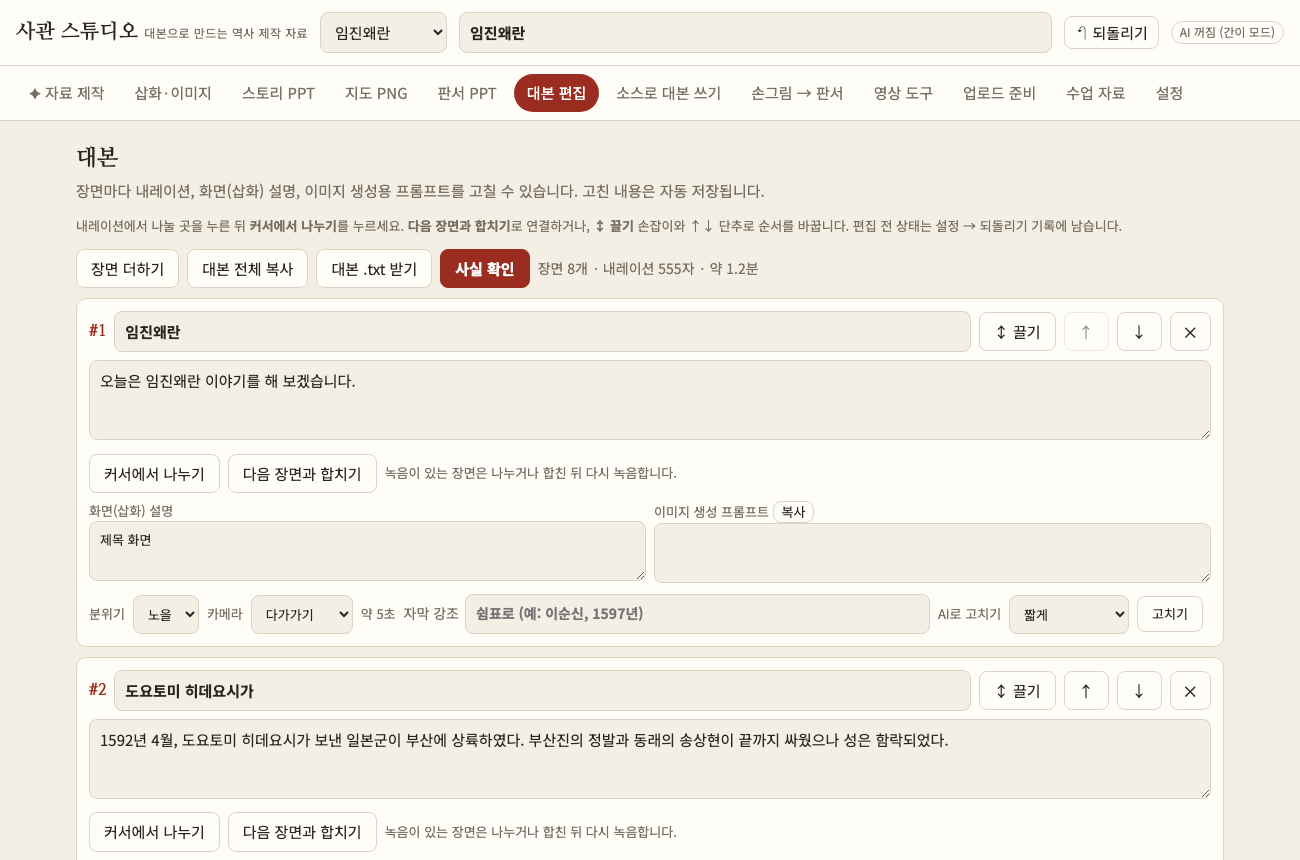
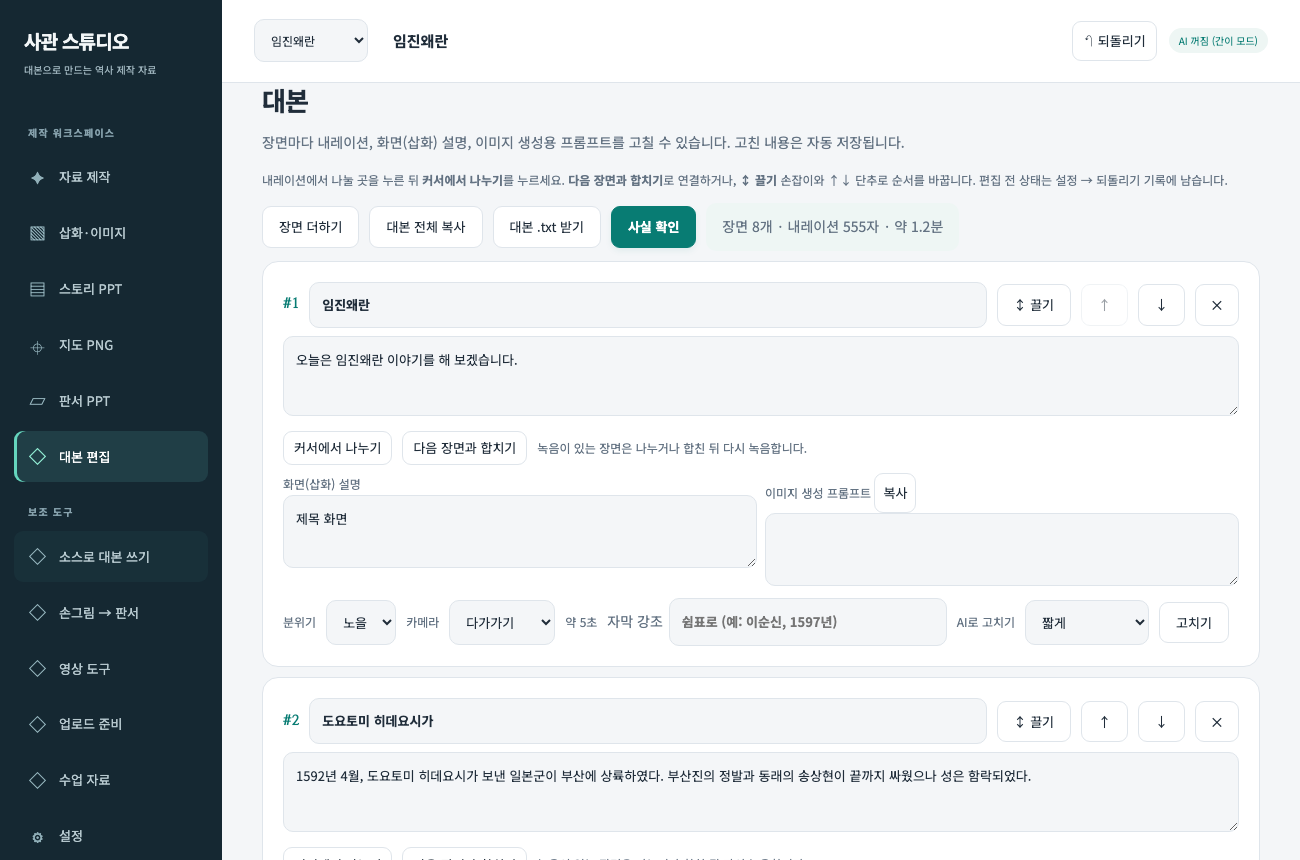
style: refresh studio workspace and material workflow

diff --git a/assets/studio.css b/assets/studio.css
@@ -1,0 +1,30 @@
+/* 제작 도구의 화면 테마. 출력물의 캔버스·PPT 디자인과 분리합니다. */
+:root{--bg:#f4f6f8;--panel:#fff;--ink:#202d3a;--muted:#647383;--line:#dfe5eb;--accent:#087c73;--accent-ink:#fff;--radius:16px;--gap:20px;--soft:#eef6f4;--nav:#152832;--sans:'Noto Sans KR','Apple SD Gothic Neo','Malgun Gothic',sans-serif}
+:root[data-theme=dark]{--bg:#101b23;--panel:#192933;--ink:#edf3f5;--muted:#afbdc7;--line:#334650;--accent:#158b80;--soft:#233d40}
+@media(prefers-color-scheme:dark){:root:not([data-theme=light]){--bg:#101b23;--panel:#192933;--ink:#edf3f5;--muted:#afbdc7;--line:#334650;--accent:#158b80;--soft:#233d40}}
+html{scroll-behavior:smooth}body{font-size:14px;line-height:1.7}button,input,textarea,select{transition:border-color .15s,background .15s,box-shadow .15s}button:focus-visible,input:focus-visible,textarea:focus-visible,select:focus-visible,summary:focus-visible,a:focus-visible{outline:3px solid #54b8ac;outline-offset:3px}a{color:var(--accent)}
+body>header{margin-left:222px;min-height:78px;padding:16px 32px;gap:12px;background:var(--panel);border-color:var(--line)}
+body>header h1{position:fixed;left:24px;top:25px;z-index:9;color:#f3f7f8;font-family:var(--sans);font-size:19px;font-weight:700;letter-spacing:-.8px}
+body>header h1 small{display:block;margin:4px 0 0;color:#9cb2bb;font-size:10px;letter-spacing:.1px}
+#proj-title{background:transparent;border-color:transparent;font-size:15px;min-width:120px}#proj-title:focus{border-color:var(--line)}#proj-select{font-size:12px}#ai-badge{font-size:10px}
+#tabs{position:fixed;inset:0 auto 0 0;width:222px;z-index:4;display:flex;flex-direction:column;overflow-y:auto;overflow-x:hidden;padding:108px 14px 24px;gap:5px;background:var(--nav);border:0}
+#tabs .nav-label{padding:16px 14px 6px;color:#87a2ad;font-size:10px;font-weight:700;letter-spacing:1.2px}
+#tabs button{display:flex;align-items:center;gap:12px;flex-shrink:0;padding:11px 14px;text-align:left;border:0;border-radius:9px;font-size:13px;color:#b7c9cf;transition:background .15s}
+#tabs button::before{content:'◇';font-size:17px;width:19px;text-align:center;color:#91b0b9}
+#tabs button[data-tab=materials]::before{content:'✦'}#tabs button[data-tab=shots]::before{content:'▧'}#tabs button[data-tab=story]::before{content:'▤'}#tabs button[data-tab=map]::before{content:'⌖'}#tabs button[data-tab=board]::before{content:'▱'}#tabs button[data-tab=settings]::before{content:'⚙'}
+#tabs button.on{background:#24464e;color:#fff;box-shadow:inset 3px 0 #65d5bd}#tabs button.on::before{color:#8fe8d0}#tabs button:hover:not(.on){background:#203942;color:#fff}
+main{max-width:1440px;margin:0 0 0 222px;padding:32px 40px 64px}section.tab>h2{font-family:var(--sans);font-size:26px;letter-spacing:-1px;margin-bottom:8px}h3{font-size:17px;letter-spacing:-.4px;margin:0 0 8px}h4{font-size:15px}p{word-break:keep-all;overflow-wrap:anywhere}.lead{line-height:1.8}.card{padding:26px;border-radius:var(--radius);box-shadow:0 3px 12px #142c3c03}.btn{border-radius:9px;padding:10px 16px;font-size:13px;font-weight:500;line-height:1.5;min-height:40px}.btn:hover:not(:disabled){background:var(--soft);border-color:#8faaa7}.btn.primary{box-shadow:0 3px 6px #087c7314}.btn.primary:hover:not(:disabled){background:#08675f;border-color:#08675f;color:white}.btn:disabled{opacity:.45}.small{font-size:12px;line-height:1.85}.pill{background:var(--soft);border:0;padding:4px 10px;font-size:11px;color:var(--accent)}
+textarea,input[type=text],input[type=password],select{background:var(--bg);border-radius:10px;padding:11px 12px;font-size:13px}textarea{line-height:1.9}textarea:focus,input:focus,select:focus{border-color:var(--accent)}input[type=checkbox]{accent-color:var(--accent);width:16px;height:16px;vertical-align:middle}summary{cursor:pointer}.row{gap:10px}.grid2>*,.material-outputs>*{min-width:0}.scene,.shot-scene{padding:20px}.shot{padding:10px;border-radius:12px}.scene header{margin:0}.scene header h1{position:static}.scene-tools .btn{padding:6px 10px;min-height:34px}.status:not(:empty){padding:12px 16px;border-radius:10px;background:var(--soft)}
+.material-hero{position:relative;display:flex;justify-content:space-between;align-items:center;gap:24px;padding:8px 0 26px;min-height:206px}.hero-copy{max-width:580px}.hero-eyebrow{display:block;color:var(--accent);font-size:11px;font-weight:700;letter-spacing:1.5px;margin-bottom:12px}.material-hero h2{font-family:var(--sans);font-size:34px;line-height:1.4;letter-spacing:-1.5px;margin:0 0 14px;font-weight:700}.material-hero .lead{font-size:13px;margin:0;max-width:510px}
+.hero-art{flex:0 0 185px;height:168px;position:relative;margin-right:16px;pointer-events:none}.hero-sheet{position:absolute;border:1px solid #cedbd8;background:#fff;border-radius:12px;box-shadow:0 8px 20px #183d3510;width:112px;height:140px;top:12px;left:15px;transform:rotate(-12deg);padding:15px}.hero-sheet::before{content:'';display:block;width:34px;height:6px;border-radius:4px;background:#769e94;margin-bottom:14px}.hero-sheet i{display:block;height:4px;border-radius:3px;background:#dce6e2;margin:8px 0}.hero-sheet i:last-child{width:60%}.hero-picture{position:absolute;width:132px;height:103px;left:58px;top:51px;transform:rotate(8deg);background:#d4e6e0;border:7px solid #fff;border-radius:12px;box-shadow:0 8px 20px #183d3520;overflow:hidden}.hero-picture::before{content:'';position:absolute;width:20px;height:20px;border-radius:50%;background:#f7e4b0;left:18px;top:13px}.hero-picture::after{content:'';position:absolute;inset:34px -10px -10px;background:#5f9388;clip-path:polygon(0 100%,0 60%,35% 0,58% 45%,74% 18%,100% 60%,100% 100%)}
+.workflow-path{display:grid;grid-template-columns:repeat(3,1fr);margin:0 0 26px;padding:0;list-style:none;border:1px solid var(--line);border-radius:12px;background:var(--panel);overflow:hidden}.workflow-path li{display:flex;align-items:center;gap:12px;padding:15px 20px;color:var(--muted);font-size:12px}.workflow-path li+li{border-left:1px solid var(--line)}.workflow-path b{display:grid;place-items:center;border:1px solid var(--line);border-radius:50%;height:26px;width:26px;font-size:11px;flex-shrink:0}.workflow-path li[aria-current=step]{color:var(--accent);background:var(--soft);font-weight:700}.workflow-path li[aria-current=step] b{background:var(--accent);border-color:var(--accent);color:white}
+#material-input>h3::before,#material-review>h3::before,#material-output>h3::before{content:'';display:inline-block;width:4px;height:17px;margin-right:9px;background:var(--accent);border-radius:2px;vertical-align:-2px}#material-input>.small{margin-top:4px}#material-script{min-height:260px;background:var(--bg);padding:20px;margin:8px 0 14px;font-size:14px}#material-propose{margin-left:auto}.input-footer{border-top:1px solid var(--line);padding-top:18px}.material-group{background:var(--panel);padding:22px;border-radius:12px;margin:18px 0}.material-group>.row:first-child{border-bottom:1px solid var(--line);padding-bottom:14px;margin-bottom:12px}.material-group label{font-size:12px;font-weight:500;color:var(--muted)}.material-group textarea,.material-group input{font-weight:400;color:var(--ink);margin-top:6px}.material-confirm{border-top:1px solid var(--line);padding-top:22px;font-size:13px}.material-outputs{gap:16px}.material-outputs>div{border-radius:12px;padding:22px;background:var(--panel)}.material-outputs h4{margin:0 0 8px}.material-outputs>div:first-child{background:var(--soft);border-color:#88bcb3;margin:0}.material-outputs .btn{font-size:12px}.material-outputs .small{margin-top:4px}#cli-preview:empty{display:none}#cli-preview{margin-top:18px}#cli-preview figure{padding:12px;background:var(--panel);border-radius:12px;border:1px solid var(--line)}#cli-preview img{border-radius:8px}#cli-preview figcaption{padding:8px 4px 0;font-size:12px}#material-review,#material-output{scroll-margin-top:102px}
+@media(min-width:1660px){main{margin-left:auto;margin-right:auto;padding-left:262px}}
+@media(max-width:1100px) and (min-width:821px){main{padding:26px}body>header{padding:16px 24px}.hero-art{display:none}.material-hero h2{font-size:30px}header h1 small{font-size:9px}}
+@media(max-width:820px){body>header{margin:0;padding:14px 18px;gap:8px;position:relative}body>header h1{position:static;color:var(--ink);width:100%;font-size:19px}body>header h1 small{display:inline;color:var(--muted);margin-left:8px;font-size:10px}#tabs{position:sticky;top:0;inset:auto;z-index:5;width:100%;flex-direction:row;padding:8px 12px;overflow-x:auto;background:var(--nav);gap:4px}#tabs .nav-label{display:none}#tabs button{padding:9px 12px;font-size:12px}#tabs button::before{display:none}#tabs button.on{box-shadow:inset 0 -2px #65d5bd}main{margin:0;padding:24px 18px 48px}.hero-art{display:none}.material-hero{min-height:0;padding:0 0 22px}.material-hero h2{font-size:29px}.card{padding:20px}.workflow-path li{padding:13px 12px;gap:8px}#material-review,#material-output{scroll-margin-top:70px}}
+@media(max-width:480px){body>header h1 small{display:block;margin:2px 0 4px}#proj-title{width:calc(100% - 170px)}#proj-select{width:155px}main{padding:24px 14px 36px}.material-hero h2{font-size:27px}.hero-eyebrow{font-size:10px}.workflow-path li{gap:6px;padding:12px 8px;font-size:11px}.workflow-path b{width:21px;height:21px;font-size:10px}.card{padding:18px}.material-group{padding:14px}#material-script{min-height:260px;padding:14px}.input-footer .btn{flex:1;text-align:center;font-size:11px}#material-propose{flex-basis:100%;margin:4px 0 0;font-size:13px}.material-outputs>div{padding:17px}.shot-grid{grid-template-columns:minmax(0,1fr)}}
+@media(prefers-reduced-motion:reduce){html{scroll-behavior:auto}*,*::before,*::after{transition:none!important}}
+@media(min-width:821px){body>header h1::before{content:'';position:fixed;top:0;left:0;width:222px;height:96px;background:var(--nav);z-index:-1}#tabs{top:96px;padding-top:12px}}
+:root[data-theme=dark] .pill{color:#8de1d0}
+@media(prefers-color-scheme:dark){:root:not([data-theme=light]) .pill{color:#8de1d0}}
+.status:not(:empty){display:block}

diff --git a/index.html b/index.html
@@ -120,6 +120,7 @@ table.places input{ width:100%; padding:4px 6px; }
 .material-group{margin:14px 0;padding:16px;border:1px solid var(--line);border-radius:10px}.material-group h4{margin:0}.material-group textarea{min-height:95px}.material-group .excerpt{white-space:pre-wrap;max-height:240px;overflow:auto;font-size:14px;padding:12px;background:var(--bg)}.material-group label{display:block}.material-group input[type=text]{width:100%}.material-confirm{padding-top:12px}.material-confirm b{flex:1}#material-script{min-height:240px;margin-bottom:12px}
 @media(max-width:620px){.material-outputs{grid-template-columns:1fr}.material-hero h2{font-size:25px}.material-group{padding:12px}}
 </style>
+<link rel="stylesheet" href="assets/studio.css">
 </head>
 <body>
 <header>
@@ -130,13 +131,15 @@ table.places input{ width:100%; padding:4px 6px; }
   <button class="btn" id="btn-undo" title="AI가 덮어쓰기 전 상태로 되돌립니다" style="padding:4px 10px">↶ 되돌리기</button>
   <span id="ai-badge" class="pill">AI 꺼짐</span>
 </header>
-<nav id="tabs">
-  <button data-tab="materials" class="on">✦ 자료 제작</button>
+<nav id="tabs" aria-label="스튜디오 도구">
+  <span class="nav-label">제작 워크스페이스</span>
+  <button data-tab="materials" class="on">자료 제작</button>
   <button data-tab="shots">삽화·이미지</button>
   <button data-tab="story">스토리 PPT</button>
   <button data-tab="map">지도 PNG</button>
   <button data-tab="board">판서 PPT</button>
   <button data-tab="script">대본 편집</button>
+  <span class="nav-label">보조 도구</span>
   <button data-tab="source">소스로 대본 쓰기</button>
   <button data-tab="chalk">손그림 → 판서</button>
   <button data-tab="video">영상 도구</button>
@@ -146,12 +149,12 @@ table.places input{ width:100%; padding:4px 6px; }
 </nav>
 <main>
 <section class="tab on" id="tab-materials">
-  <div class="material-hero"><span class="pill">대본 → 제작 목록 → 자료별 받기</span><h2>한 편의 대본을, 필요한 자료로.</h2>
-  <p class="lead">삽화·지도 PNG, 스토리 PPT, 판서 자료를 준비하세요. 그림은 Codex·ChatGPT 구독으로 만들고, 지도와 인용 화면·PPT는 여기서 만듭니다.</p></div>
+  <div class="material-hero"><div class="hero-copy"><span class="hero-eyebrow">HISTORY · CREATIVE STUDIO</span><h2>이야기가 시작되는 곳,<br>사관 스튜디오.</h2><p class="lead">한 편의 대본을 삽화와 지도, 스토리 PPT로.<br>수업과 영상에 필요한 자료를 한곳에서 준비하세요.</p></div><div class="hero-art" aria-hidden="true"><div class="hero-sheet"><i></i><i></i><i></i><i></i><i></i></div><div class="hero-picture"></div></div></div>
+  <ol class="workflow-path" aria-label="자료 제작 순서"><li id="workflow-input" aria-current="step"><b>01</b> 대본 입력</li><li id="workflow-review"><b>02</b> 목록 검토</li><li id="workflow-output"><b>03</b> 자료 제작</li></ol>
   <div class="card" id="material-input">
     <h3>1. 완성 대본 넣기</h3><p class="small">원고의 표현을 보존한 채 제작 구간을 나눕니다. 제목을 첫 줄에 넣어 주세요.</p>
     <textarea id="material-script" aria-label="완성 대본" placeholder="직접 쓴 설명 원고나 완성된 내레이션을 붙여 넣으세요."></textarea>
-    <div class="row"><button class="btn" id="material-sample">명량대첩 원고 예시</button><label class="btn">대본 파일 넣기<input id="material-file" type="file" accept=".txt,.md,text/plain" hidden></label><button class="btn primary" id="material-propose">제작 목록 제안받기</button></div>
+    <div class="row input-footer"><button class="btn" id="material-sample">명량대첩 원고 예시</button><label class="btn">대본 파일 넣기<input id="material-file" type="file" accept=".txt,.md,text/plain" hidden></label><button class="btn primary" id="material-propose">제작 목록 제안받기</button></div>
   </div>
   <div class="card" id="material-review" hidden>
     <h3>2. 만들 자료 검토하기</h3><p class="small" id="material-method"></p>

diff --git a/assets/materials-ui.js b/assets/materials-ui.js
@@ -8,6 +8,7 @@
     var m=state(),current=HS.materialCurrent(),ok=HS.materialApproved(),gs=m?m.groups.filter(function(g){return g.selected;}):[],pics=0;
     gs.forEach(function(g){if(g.kind==='illust')pics+=g.count;});
     $('material-summary').textContent=gs.length+'개 구간 · 삽화 '+pics+'장 · 지도 '+gs.filter(function(g){return g.kind==='map';}).length+'장 · 인용·비교 '+gs.filter(function(g){return g.kind==='source'||g.kind==='compare';}).length+'장';
+    ['input','review','output'].forEach(function(step){var el=$('workflow-'+step);if(step===(ok?'output':current?'review':'input'))el.setAttribute('aria-current','step');else el.removeAttribute('aria-current');});
     $('material-confirm').disabled=!current || !gs.length;
     $('material-output').hidden=!ok;
     if(ok){

diff --git a/AGENTS.md b/AGENTS.md
@@ -58,7 +58,7 @@ the app chose by wrapping `HS.download`.
 ## Layout
 | Path | Role |
 |---|---|
-| `index.html` | Layout, all CSS, tab markup; script order matters (see bottom of file) |
+| `index.html` | Layout, base CSS, tab markup; script order matters (see bottom of file) |
 | `assets/app.js` | `window.HS` namespace: project state + multiple projects in IndexedDB (`hs` db, `kv` store: `projects` index, `current`, `project:<id>`, undo `history:<id>`; migrates the old single `project`/`history` keys; localStorage fallback), `HS.ready`, `HS.openProject/newProject/addProject/duplicateProject/deleteProject`, undo snapshots (`HS.snapshot`/`HS.restoreSnapshot`, last 10 per project), utils, `HS.callClaude` (SDK `maxRetries: 4`, `HS.cancelAI` aborts active streams, `HS.whyFail` maps status codes to Korean messages) |
 | `assets/scriptgen.js` | Source → script. `HS.generateAI` (schema `HS.SCRIPT_SCHEMA`), offline `HS.generateSimple`, `HS.rewriteScene`, `HS.factCheck`; `HS.userContent` puts attached PDFs/images first as document/image blocks with `cache_control` on the last one, then `<source>`, then reference videos (`<reference_video>` = facts, rewritten not copied; `<style_reference>` = structure/tone only); `HS.cleanTranscript` cleans pasted YouTube transcripts; `HS.YT_ID` |
 | `assets/board.js` | Board line syntax (`HS.parseBoardLine`), chalkboard background, `HS.drawBoardSlide` (with `progress` for the writing animation), `HS.boardChars` |
@@ -140,3 +140,7 @@ Drawing code sizes things by `Math.min(w, h) / 720` so the same code serves 16:9
 - `tools/studio-server.mjs`: same-origin token/Host checks, fixed CLI arguments (no shell), isolated temporary job directory, serial jobs, timeout/cancel, PNG validation and local `output/codex-images/` archive. Uses ChatGPT login and ignores user config/API-key environment variables; no paid API fallback. Native image-tool availability varies by CLI. CLI JSONL does not reliably expose native image calls, so PNG validation is not proof of image provenance.
 - `assets/codex-cli.js`: confirmed material plan only; one/all missing/redo images, progress, previews, auto-attach guarded by project object/shot ID/prompt/image/approval. Reload interrupts polling; archived images remain on disk.
 - Run `npm run test:cli` in addition to regular checks for bridge changes. Tests inject a fake generator; document actual CLI generation separately.
+
+## Studio UI
+- `assets/studio.css`: application-only theme, desktop sidebar, responsive navigation, focus states and dark mode; never change canvas/PPT output styling from this stylesheet.
+- Material workflow indicator in `assets/materials-ui.js` uses `aria-current=step` based on current plan/approval state. Existing element IDs remain the event/test contract.

diff --git a/docs/HANDOFF.md b/docs/HANDOFF.md
@@ -26,6 +26,27 @@ Codex와 Claude Code가 번갈아 이 프로젝트를 고칩니다. **작업을 
 
 ## 기록
 
+### 2026-09-26 · Codex · codex/studio-design
+
+**한 일**
+- 남색 사이드바와 청록색 강조, 밝은 작업 영역으로 앱 화면을 개선했습니다. 제작 워크스페이스/보조 도구를 구분하고 프로젝트 선택은 상단에 유지했습니다.
+- 대본 입력 → 목록 검토 → 자료 제작의 현재 단계 표시, 입력 영역·주요 버튼·자료 카드·미리보기 간격을 정돈했습니다. 기존 기능과 데이터 형식은 유지했습니다.
+- 휴대폰 가로 메뉴, 어두운 테마, 키보드 초점 표시와 움직임 줄이기를 지원합니다. 앱 전용 스타일을 assets/studio.css로 분리하고 로컬 서버의 CSS 응답 형식을 추가했습니다.
+- README·AGENTS와 앱 화면 사진을 갱신했습니다. 이전 미병합 기능을 포함한 브랜치에서 작업했으며 main은 c265878입니다.
+
+**확인한 것**
+- npm run check: 28개 파일 통과. npm test: 74/74 통과. npm run test:cli: 2/2 통과(생성기는 모의).
+- npm run screens를 실행하고 첫 화면·검토·이미지 화면을 확인했습니다. 별도 390px 휴대폰 화면에서 가로 넘침이 없고, 자료 출력 및 어두운 테마 화면도 확인했습니다.
+- 진행 중인 CLI 자식 프로세스가 없는 것을 확인한 뒤 로컬 서버를 갱신했습니다. 실제 HTTP 주소에서 새 스타일 로드와 사이드바 적용을 확인했습니다.
+
+**확인하지 못한 것 · 알려진 문제**
+- Safari/Firefox 및 실제 휴대폰 기기에서는 시험하지 않았습니다. 이번 변경에서 실제 그림을 새로 생성하지 않았으며 이전 생성 검증 기록은 아래에 있습니다.
+- 기존의 CLI 버전 의존성과 새로고침 시 생성 작업 자동 복구 제한은 그대로입니다.
+
+**다음 할 일**
+1. 선생님의 실제 명량대첩 프로젝트로 새 화면의 가독성과 자료 제작 동선 피드백 반영하기.
+2. 기존 CLI 작업 복구 및 생성 이미지 고증·인물 일관성 개선을 이어가기. 브랜치는 main 미병합입니다.
+
 ### 2026-09-26 · Codex · codex/cli-images
 
 **한 일**
